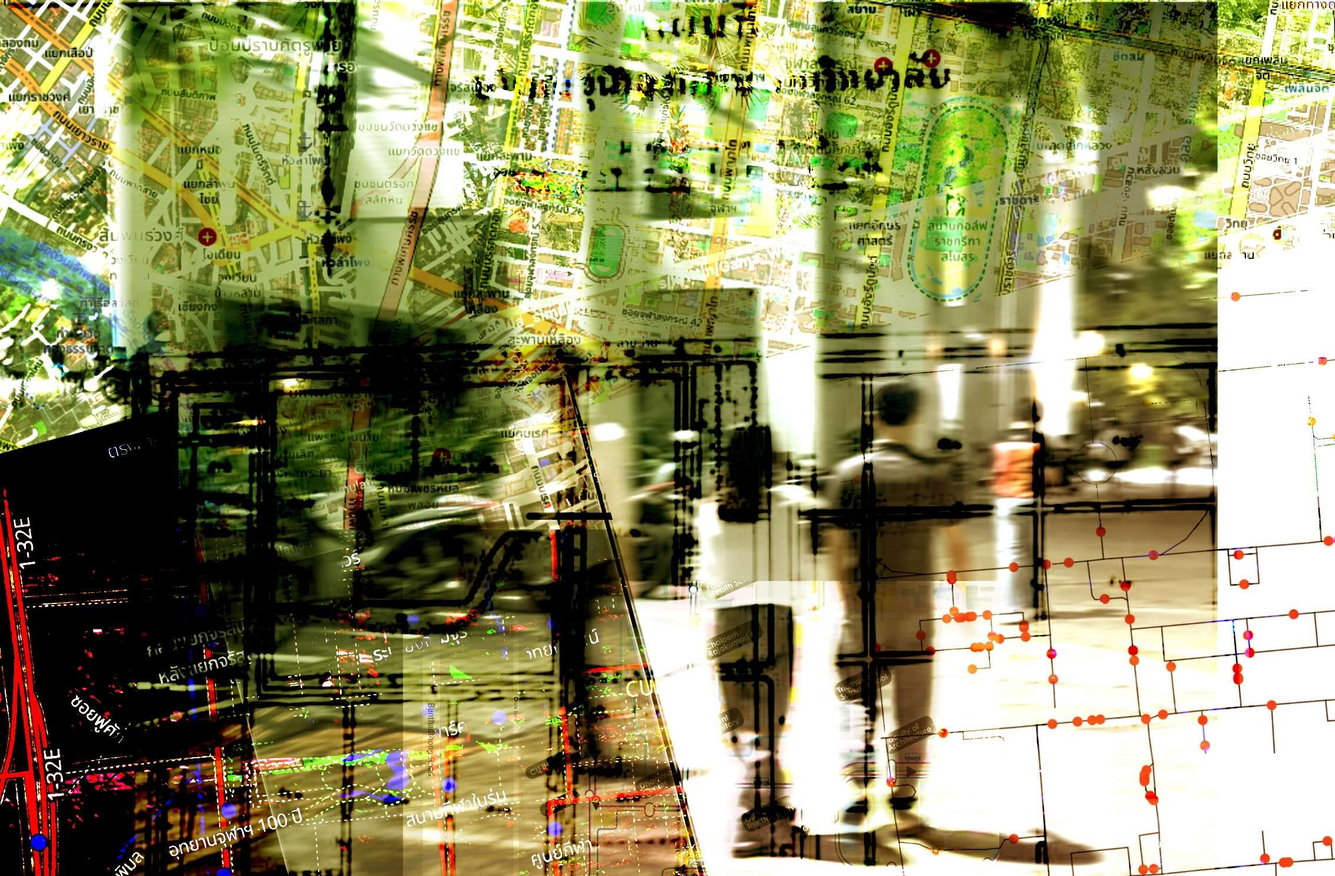
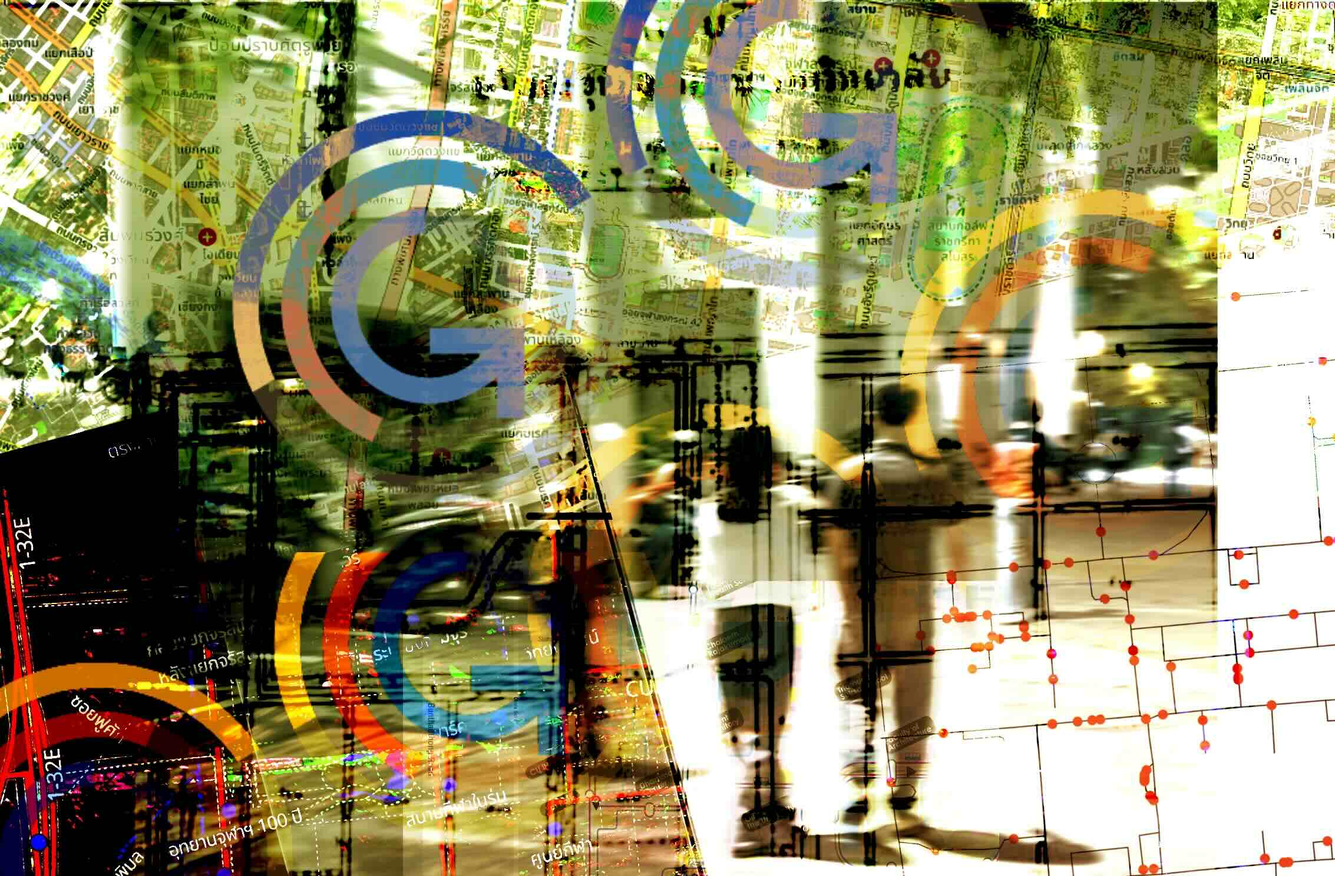
added

diff --git a/_work/Gama.md b/_work/Gama.md
@@ -1,7 +1,7 @@
 ---
 layout: work
-title: "CUPS "
-description: "Chulalongkorn University campus Pedestrian Silumation"
+title: "CUPS (w/ Gama Platform)"
+description: "Chulalongkorn University campus Pedestrian Silumation with Gama Platform"
 image: "/assets/arts/Banner_CUPS.jpeg"
 year: "2026"
 role:
@@ -11,7 +11,7 @@ for:
 team:
 advisors: 
 tool: 
-order: "6"  
+order: "7"  
 display: true
 ---
 # Chulalongkorn University campus Pedestrian Silumation (CUPS)

diff --git a/_work/Manostan.md b/_work/Manostan.md
@@ -11,7 +11,7 @@ for:
 team: 
 advisors: 
 tool:   
-order: "7"  
+order: "6"  
 display: true
 ---
 
